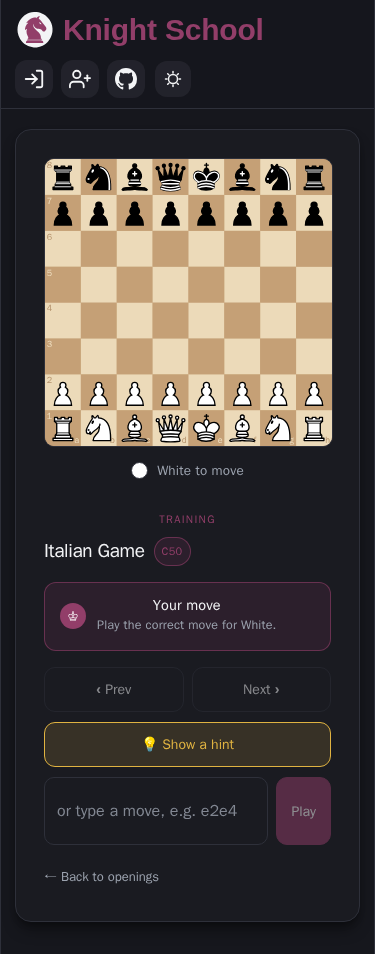
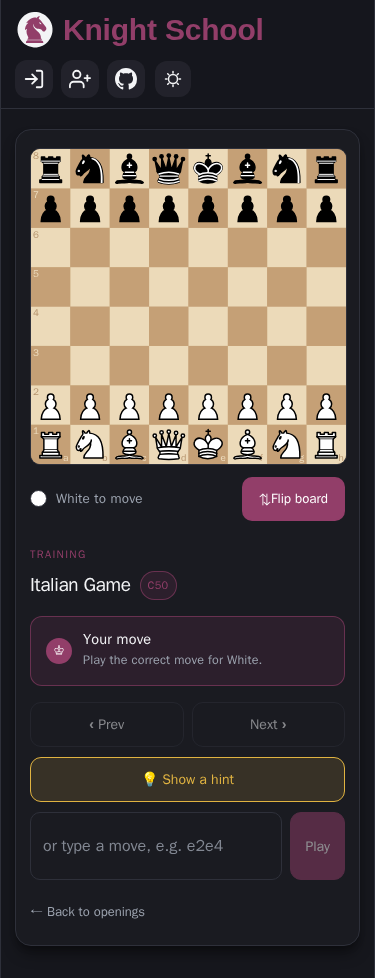
feat(ux): puzzle streak/skip, labeled nav tabs, mobile training layout
Puzzles page gets a persistent solve streak and a Skip control so a
stuck user isn't stranded; header nav swaps the icon-only puzzle link
for labeled Openings/Puzzles tabs; training board is capped on
tablet/mobile so hint and move controls stay visible without scrolling.

diff --git a/react/src/pages/Puzzles.test.tsx b/react/src/pages/Puzzles.test.tsx
@@ -1,0 +1,179 @@
+// react/src/pages/Puzzles.test.tsx
+import { describe, it, expect, vi, afterEach, beforeEach } from "vitest";
+import { render, waitFor, act, screen, cleanup } from "@testing-library/react";
+import userEvent from "@testing-library/user-event";
+import { Puzzles } from "./Puzzles";
+import api from "../api";
+import "@testing-library/jest-dom";
+import type { BoardProps } from "../components/Board";
+
+const {
+  applyMoveMock,
+  legalMovesMock,
+  pieceColorAtMock,
+  sideToMoveMock,
+} = vi.hoisted(() => ({
+  applyMoveMock: vi.fn(),
+  legalMovesMock: vi.fn(() => []),
+  pieceColorAtMock: vi.fn(() => "w"),
+  sideToMoveMock: vi.fn(() => "w"),
+}));
+
+vi.mock("@knight-school/chess-core", async (importOriginal) => {
+  const actual =
+    await importOriginal<typeof import("@knight-school/chess-core")>();
+  return {
+    ...actual,
+    applyMove: applyMoveMock,
+    legalMoves: legalMovesMock,
+    pieceColorAt: pieceColorAtMock,
+    sideToMove: sideToMoveMock,
+  };
+});
+
+let capturedProps: BoardProps;
+
+vi.mock("../components/Board", () => ({
+  default: (props: BoardProps) => {
+    capturedProps = props;
+    return <div data-testid="board" />;
+  },
+}));
+
+vi.mock("../api", () => ({
+  default: { get: vi.fn(), post: vi.fn() },
+}));
+
+const mockNavigate = vi.fn();
+vi.mock("react-router-dom", () => ({
+  useNavigate: () => mockNavigate,
+}));
+
+const NEXT_PUZZLE = {
+  puzzleId: "p1",
+  fen: "rnbqkbnr/pppppppp/8/8/8/8/PPPPPPPP/RNBQKBNR w KQkq - 0 1",
+  rating: 1500,
+  themes: "fork",
+  correctMoveUci: "e2e4",
+};
+
+describe("Puzzles Page", () => {
+  let user: ReturnType<typeof userEvent.setup>;
+
+  beforeEach(() => {
+    user = userEvent.setup();
+    mockNavigate.mockReset();
+    applyMoveMock.mockReset();
+    (api.get as ReturnType<typeof vi.fn>).mockReset();
+    (api.post as ReturnType<typeof vi.fn>).mockReset();
+  });
+
+  afterEach(() => {
+    cleanup();
+  });
+
+  const renderPuzzles = () => render(<Puzzles />);
+
+  it("loads the first puzzle and shows rating + zeroed streak", async () => {
+    (api.get as ReturnType<typeof vi.fn>).mockResolvedValueOnce({
+      data: NEXT_PUZZLE,
+    });
+
+    renderPuzzles();
+
+    await screen.findByText("Rating ~1500");
+    expect(screen.getByText(/Streak: 0/)).toBeInTheDocument();
+    expect(screen.getByText("Find the best move.")).toBeInTheDocument();
+    expect(screen.getByRole("button", { name: /Skip puzzle/ })).toBeEnabled();
+  });
+
+  it("increments streak and best streak on a correct move", async () => {
+    (api.get as ReturnType<typeof vi.fn>).mockResolvedValueOnce({
+      data: NEXT_PUZZLE,
+    });
+    (api.post as ReturnType<typeof vi.fn>).mockResolvedValueOnce({
+      data: { correct: true, reason: "", fenAfter: NEXT_PUZZLE.fen },
+    });
+
+    renderPuzzles();
+    await screen.findByText("Rating ~1500");
+
+    applyMoveMock.mockReturnValueOnce({
+      nextFen: NEXT_PUZZLE.fen,
+      uci: "e2e4",
+    });
+
+    act(() => {
+      capturedProps.onMove?.("e2", "e4");
+    });
+
+    await screen.findByText("✅ Correct!");
+    expect(screen.getByText("Solved: 1")).toBeInTheDocument();
+    expect(screen.getByText(/Streak: 1/)).toBeInTheDocument();
+    expect(screen.getByText(/best 1/)).toBeInTheDocument();
+  });
+
+  it("resets streak and snaps the board back on a wrong move", async () => {
+    (api.get as ReturnType<typeof vi.fn>).mockResolvedValueOnce({
+      data: NEXT_PUZZLE,
+    });
+    (api.post as ReturnType<typeof vi.fn>).mockResolvedValueOnce({
+      data: { correct: false, reason: "wrong move", fenAfter: null },
+    });
+
+    renderPuzzles();
+    await screen.findByText("Rating ~1500");
+
+    applyMoveMock.mockReturnValueOnce({
+      nextFen: "8/8/8/8/8/8/8/8 w - - 0 1",
+      uci: "e2e5",
+    });
+
+    act(() => {
+      capturedProps.onMove?.("e2", "e5");
+    });
+
+    await screen.findByText("❌ wrong move");
+    expect(screen.getByText(/Streak: 0/)).toBeInTheDocument();
+    expect(screen.queryByText(/best/)).not.toBeInTheDocument();
+  });
+
+  it("skipping loads the next puzzle and resets the streak", async () => {
+    (api.get as ReturnType<typeof vi.fn>)
+      .mockResolvedValueOnce({ data: NEXT_PUZZLE })
+      .mockResolvedValueOnce({ data: { ...NEXT_PUZZLE, puzzleId: "p2" } });
+
+    renderPuzzles();
+    await screen.findByText("Rating ~1500");
+
+    await user.click(screen.getByRole("button", { name: /Skip puzzle/ }));
+
+    await waitFor(() => expect(api.get).toHaveBeenCalledTimes(2));
+    expect(screen.getByText(/Streak: 0/)).toBeInTheDocument();
+  });
+
+  it("shows an empty state and hides Skip when no puzzles are due", async () => {
+    (api.get as ReturnType<typeof vi.fn>).mockRejectedValueOnce({
+      response: { status: 404 },
+    });
+
+    renderPuzzles();
+
+    await screen.findByText(
+      "No puzzles due right now — check back later.",
+    );
+    expect(
+      screen.queryByRole("button", { name: /Skip puzzle/ }),
+    ).not.toBeInTheDocument();
+  });
+
+  it("redirects to login on a 401", async () => {
+    (api.get as ReturnType<typeof vi.fn>).mockRejectedValueOnce({
+      response: { status: 401 },
+    });
+
+    renderPuzzles();
+
+    await waitFor(() => expect(mockNavigate).toHaveBeenCalledWith("/login"));
+  });
+});

diff --git a/react/src/pages/Puzzles.tsx b/react/src/pages/Puzzles.tsx
@@ -32,6 +32,8 @@ export const Puzzles = () => {
   const [feedback, setFeedback] = useState("");
   const [isSubmitting, setIsSubmitting] = useState(false);
   const [solved, setSolved] = useState(0);
+  const [streak, setStreak] = useState(0);
+  const [bestStreak, setBestStreak] = useState(0);
   const { orientation, flip } = useBoardOrientation();
 
   const fenRef = useRef(fen);
@@ -83,10 +85,16 @@ export const Puzzles = () => {
         if (res.data.correct) {
           setFeedback("✅ Correct!");
           setSolved((n) => n + 1);
+          setStreak((n) => {
+            const next = n + 1;
+            setBestStreak((best) => Math.max(best, next));
+            return next;
+          });
           setTimeout(() => void loadNext(), 600);
         } else {
           setFeedback(`❌ ${res.data.reason || "Not quite — try again."}`);
           setFen(fenRef.current); // snap back to the puzzle position
+          setStreak(0);
         }
       } catch (err) {
         const e = err as AxiosError;
@@ -98,6 +106,12 @@ export const Puzzles = () => {
     },
     [puzzleId, isSubmitting, loadNext, navigate],
   );
+
+  const skip = useCallback(() => {
+    if (!puzzleId || isSubmitting) return;
+    setStreak(0);
+    void loadNext();
+  }, [puzzleId, isSubmitting, loadNext]);
 
   const solverColor = sideToMove(fen);
 
@@ -133,7 +147,12 @@ export const Puzzles = () => {
           <h1>Puzzles</h1>
           <div className="puzzles-meta">
             {rating != null && <span>Rating ~{rating}</span>}
-            <span>Solved this session: {solved}</span>
+            <span>Solved: {solved}</span>
+            <span className={streak > 0 ? "puzzles-streak is-active" : "puzzles-streak"}>
+              Streak: {streak}
+              {streak > 0 ? " 🔥" : ""}
+              {bestStreak > 0 ? ` · best ${bestStreak}` : ""}
+            </span>
           </div>
         </header>
 
@@ -159,6 +178,17 @@ export const Puzzles = () => {
         <p className="puzzles-feedback" role="status">
           {feedback || (puzzleId ? "Find the best move." : "")}
         </p>
+
+        {puzzleId && (
+          <button
+            type="button"
+            className="puzzles-skip"
+            onClick={skip}
+            disabled={isSubmitting}
+          >
+            Skip puzzle ›
+          </button>
+        )}
       </div>
     </main>
   );

diff --git a/react/src/components/Header.tsx b/react/src/components/Header.tsx
@@ -65,26 +65,14 @@ export default function Header() {
 
           <nav className="site-header-nav" aria-label="Primary">
             {isLoggedIn && (
-              <Link
-                to="/puzzles"
-                className="site-header-profile-link"
-                aria-label="Puzzles"
-                title="Puzzles"
-              >
-                <svg
-                  width={22}
-                  height={22}
-                  viewBox="0 0 24 24"
-                  fill="none"
-                  stroke="currentColor"
-                  strokeWidth={2}
-                  strokeLinecap="round"
-                  strokeLinejoin="round"
-                  aria-hidden="true"
-                >
-                  <path d="M19.439 7.85c-.049.322.059.648.289.878l1.568 1.568c.47.47.706 1.087.706 1.704s-.235 1.233-.706 1.704l-1.611 1.611a.98.98 0 0 1-.837.276c-.47-.07-.802-.48-.968-.925a2.501 2.501 0 1 0-3.214 3.214c.446.166.855.497.925.968a.979.979 0 0 1-.276.837l-1.61 1.61a2.404 2.404 0 0 1-3.408 0l-1.568-1.568a1.026 1.026 0 0 0-.877-.29c-.493.074-.84.504-1.02.968a2.5 2.5 0 1 1-3.237-3.237c.464-.18.894-.527.967-1.02a1.026 1.026 0 0 0-.289-.877l-1.568-1.568C1.235 12.483 1 11.866 1 11.249s.235-1.233.706-1.704L2.752 8.4a.98.98 0 0 1 .837-.276c.47.07.802.48.968.925a2.501 2.501 0 1 0 3.214-3.214c-.446-.166-.855-.497-.925-.968a.979.979 0 0 1 .276-.837l1.61-1.61a2.404 2.404 0 0 1 3.408 0l1.568 1.568c.23.23.556.339.877.29.493-.074.84-.504 1.02-.968a2.5 2.5 0 1 1 3.237 3.237c-.464.18-.894.527-.967 1.02z" />
-                </svg>
-              </Link>
+              <>
+                <Link to="/dashboard" className="site-header-nav-link">
+                  Openings
+                </Link>
+                <Link to="/puzzles" className="site-header-nav-link">
+                  Puzzles
+                </Link>
+              </>
             )}
             {!isLoggedIn ? (
               <>

diff --git a/react/src/styles/puzzles.css b/react/src/styles/puzzles.css
@@ -36,3 +36,29 @@
   font-weight: 600;
   color: var(--text-h);
 }
+
+.puzzles-streak {
+  color: var(--text);
+}
+.puzzles-streak.is-active {
+  color: var(--accent);
+  font-weight: 700;
+}
+
+.puzzles-skip {
+  font: inherit;
+  font-size: 13px;
+  font-weight: 600;
+  color: var(--text);
+  background: none;
+  border: 0;
+  cursor: pointer;
+  padding: 4px 0;
+}
+.puzzles-skip:hover {
+  color: var(--accent);
+}
+.puzzles-skip:disabled {
+  opacity: 0.5;
+  cursor: not-allowed;
+}

diff --git a/react/src/styles/training.css b/react/src/styles/training.css
@@ -255,3 +255,12 @@ html[data-theme="dark"] {
     grid-template-columns: 1fr;
   }
 }
+
+/* Cap the board so it doesn't push controls off-screen once the rail drops
+   below it (matches the Puzzles page's 480px cap). */
+@media (max-width: 900px) {
+  .training-board-wrap {
+    max-width: 480px;
+    margin: 0 auto;
+  }
+}
